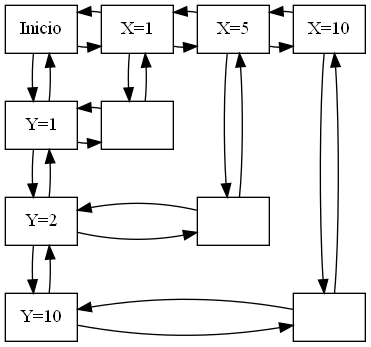
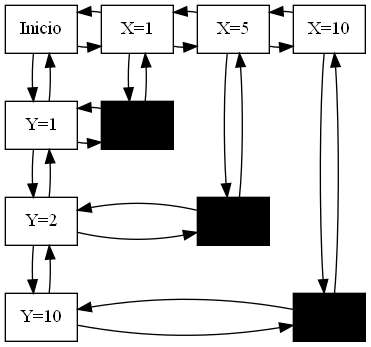
color a las matrices

Changed region(s): [[0.7709, 0.8357, 1.0, 1.0], [0.5337, 0.5476, 0.7412, 0.7205], [0.2668, 0.2882, 0.4744, 0.4323]]

diff --git a/EDD_Fase2/src/edd_fase2/Matriz.java b/EDD_Fase2/src/edd_fase2/Matriz.java
@@ -124,7 +124,7 @@ public class Matriz {
             while (actual != null){
                 String nombrenodo="nodo"+actual.fila+actual.columna;
                 String y="\"" +actual.dato+"\"";
-                String nodo=nombrenodo+"[label="+y+",group="+ controlx+"]";
+                String nodo=nombrenodo+"[label="+y+",group="+ controlx+ ",style=\"filled\",fillcolor=\"black\" " +"]";
                 resultado += nodo+"\n";
                 resultado += nombrex+"->"+nombrenodo+"\n";
                 resultado+=nombrenodo+"->"+nombrex+"\n";

diff --git a/EDD_Fase2/src/edd_fase2/EDD_Fase2.java b/EDD_Fase2/src/edd_fase2/EDD_Fase2.java
@@ -8,9 +8,9 @@ public class EDD_Fase2 {
         
         
         Matriz matriz=new Matriz();
-        matriz.append(1, 1, "");
-        matriz.append(10, 10, "");
-        matriz.append(5, 2, "");
+        matriz.append(1, 1, "hola");
+        matriz.append(10, 10, "hola");
+        matriz.append(5, 2, "hola");
         matriz.Graficar_Nodo();
         
         
